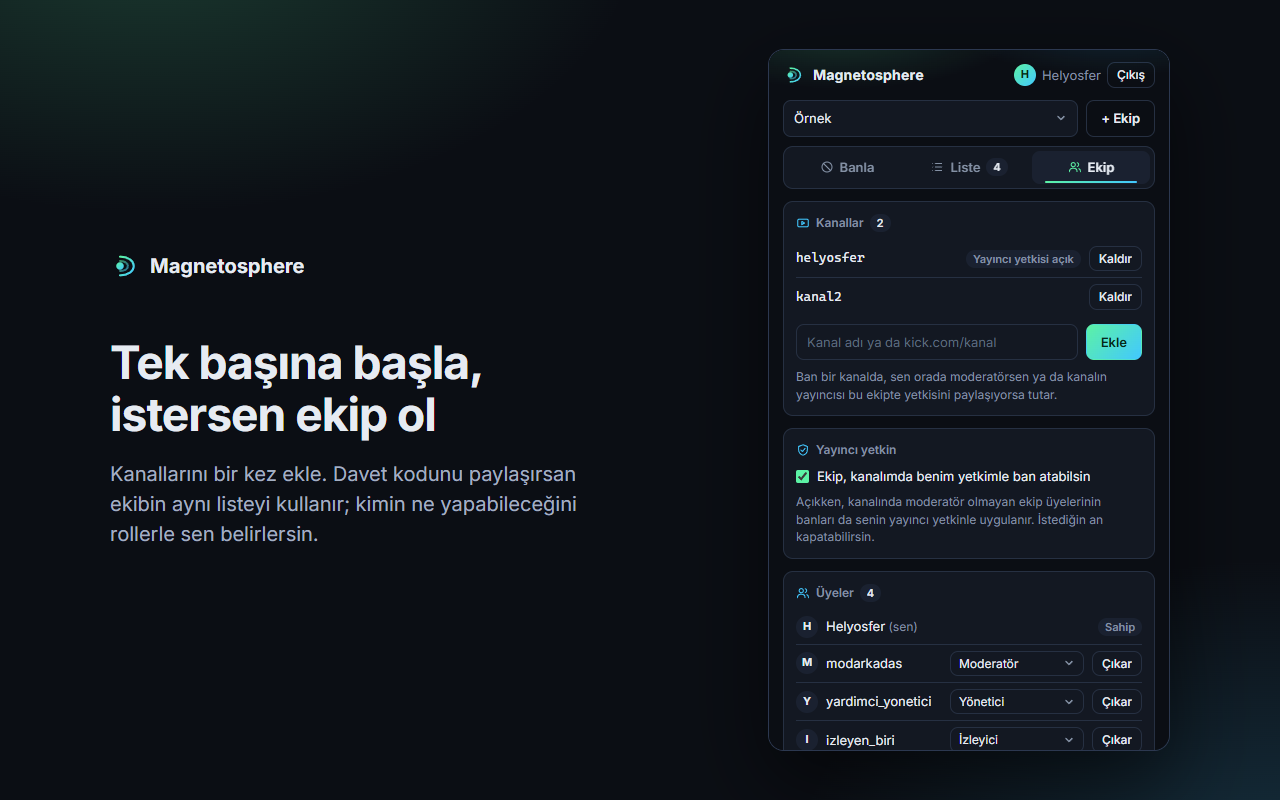
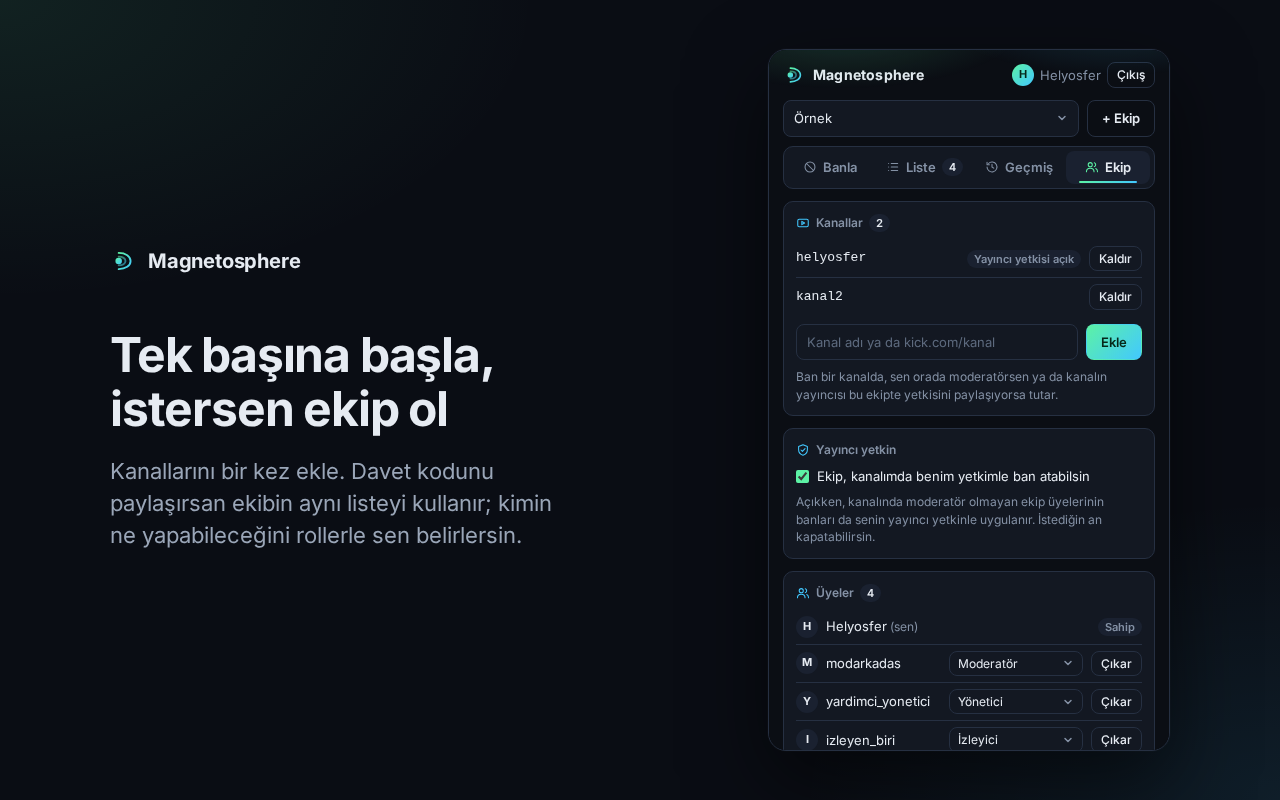
Mağaza görselleri 0.7.2 arayüzüyle yenilendi; Geçmiş sekmesi görseli eklendi
- Beş görselin hepsi gerçek panel koduyla yeniden üretildi: sekme çubuğunda Geçmiş
  var, Liste'deki eski "Kaldırılanlar" kutucuğu yok.
- Liste görseli aktif banları (kalıcı ve süren uzaklaştırma), yeni 5. görsel
  Geçmiş'i ("Ceza bitti" ve "Kaldırıldı") gösterir. Ban kaldır görseli, Geçmiş'te
  adıyla kaldırma kaydı göründüğü için bu görselle birleşti (en fazla 5 görsel).
- README galerisi ve mağaza notları yeni dosya adına göre güncellendi.

diff --git a/README.md b/README.md
@@ -43,10 +43,10 @@ Adını, Dünya'yı güneş rüzgârına karşı koruyan manyetik kalkandan (man
 
 | | |
 |:-:|:-:|
-| <img src="store/ekran-1-banla.png" alt="Banla sekmesi: kullanıcı adları, sebep ve süre" width="420"> | <img src="store/ekran-5-kaldir.png" alt="Ban kaldır: kullanıcı adıyla bütün kanallardan kaldırma" width="420"> |
-| **Banla:** adları yaz, sebep ve süre seç; ban tüm kanallara birden gider. | **Ban kaldır:** adı yaz; Kick'te elle atılmış ban da bütün kanallardan kalkar. |
-| <img src="store/ekran-2-liste.png" alt="Liste sekmesi: banlar ve her kanaldaki sonuç" width="420"> | <img src="store/ekran-3-sira.png" alt="Sıra: uzun listelerin arka planda işlenmesi" width="420"> |
-| **Liste:** kim kimi neden banladı, ban hangi kanallarda uygulandı. | **Sıra:** binlerce ad arka planda işlenir; panel kapansa da devam eder. |
+| <img src="store/ekran-1-banla.png" alt="Banla sekmesi: kullanıcı adları, sebep ve süre" width="420"> | <img src="store/ekran-5-gecmis.png" alt="Geçmiş sekmesi: kaldırılan banlar ve süresi dolan uzaklaştırmalar" width="420"> |
+| **Banla:** adları yaz, sebep ve süre seç; ban tüm kanallara birden gider. | **Geçmiş:** kaldırılan banlar ve süresi dolan uzaklaştırmalar burada kalır. |
+| <img src="store/ekran-2-liste.png" alt="Liste sekmesi: aktif banlar ve her kanaldaki sonuç" width="420"> | <img src="store/ekran-3-sira.png" alt="Sıra: uzun listelerin arka planda işlenmesi" width="420"> |
+| **Liste:** aktif banlar: kim kimi neden banladı, ban hangi kanallarda uygulandı. | **Sıra:** binlerce ad arka planda işlenir; panel kapansa da devam eder. |
 | <img src="store/ekran-4-ekip.png" alt="Ekip sekmesi: kanallar, yayıncı yetkisi ve roller" width="420"> | |
 | **Ekip:** kanallar, yayıncı yetkisi paylaşımı, üyeler ve rolleri. | |
 
@@ -421,7 +421,7 @@ Mağaza sayfasının metni [`store/aciklama.md`](store/aciklama.md) içindedir. 
 
 | Alan | Dosya | Boyut |
 |---|---|---|
-| Ekran görüntüleri | [`ekran-1-banla.png`](store/ekran-1-banla.png), [`ekran-2-liste.png`](store/ekran-2-liste.png), [`ekran-3-sira.png`](store/ekran-3-sira.png), [`ekran-4-ekip.png`](store/ekran-4-ekip.png), [`ekran-5-kaldir.png`](store/ekran-5-kaldir.png) | 1280×800 |
+| Ekran görüntüleri | [`ekran-1-banla.png`](store/ekran-1-banla.png), [`ekran-2-liste.png`](store/ekran-2-liste.png), [`ekran-3-sira.png`](store/ekran-3-sira.png), [`ekran-4-ekip.png`](store/ekran-4-ekip.png), [`ekran-5-gecmis.png`](store/ekran-5-gecmis.png) | 1280×800 |
 | Küçük tanıtım kutusu | [`tanitim-kucuk-440x280.png`](store/tanitim-kucuk-440x280.png) | 440×280 |
 | Büyük tanıtım kutusu | [`tanitim-buyuk-1400x560.png`](store/tanitim-buyuk-1400x560.png) | 1400×560 |
 | Simge | [`extension/icons/icon128.png`](extension/icons/icon128.png) | 128×128 |

diff --git a/store/aciklama.md b/store/aciklama.md
@@ -56,7 +56,7 @@ Magnetosphere bağımsız bir projedir; Kick ile bağlantılı değildir ve Kick
 | Ekran görüntüsü 2 | `ekran-2-liste.png` | 1280×800 |
 | Ekran görüntüsü 3 | `ekran-3-sira.png` | 1280×800 |
 | Ekran görüntüsü 4 | `ekran-4-ekip.png` | 1280×800 |
-| Ekran görüntüsü 5 | `ekran-5-kaldir.png` | 1280×800 |
+| Ekran görüntüsü 5 | `ekran-5-gecmis.png` | 1280×800 |
 | Küçük tanıtım kutusu | `tanitim-kucuk-440x280.png` | 440×280 |
 | Büyük tanıtım kutusu (isteğe bağlı) | `tanitim-buyuk-1400x560.png` | 1400×560 |
 
